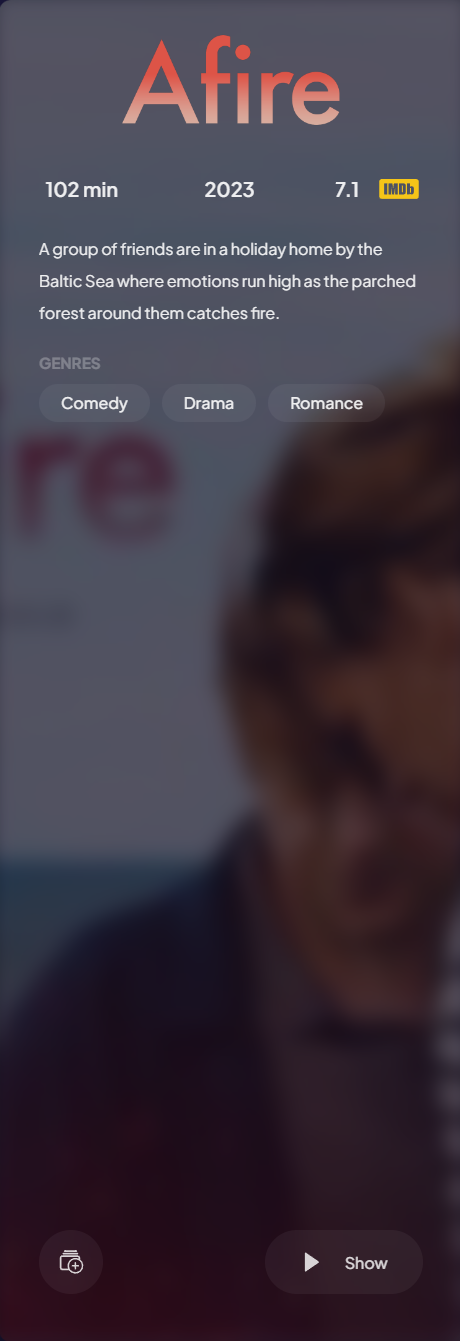
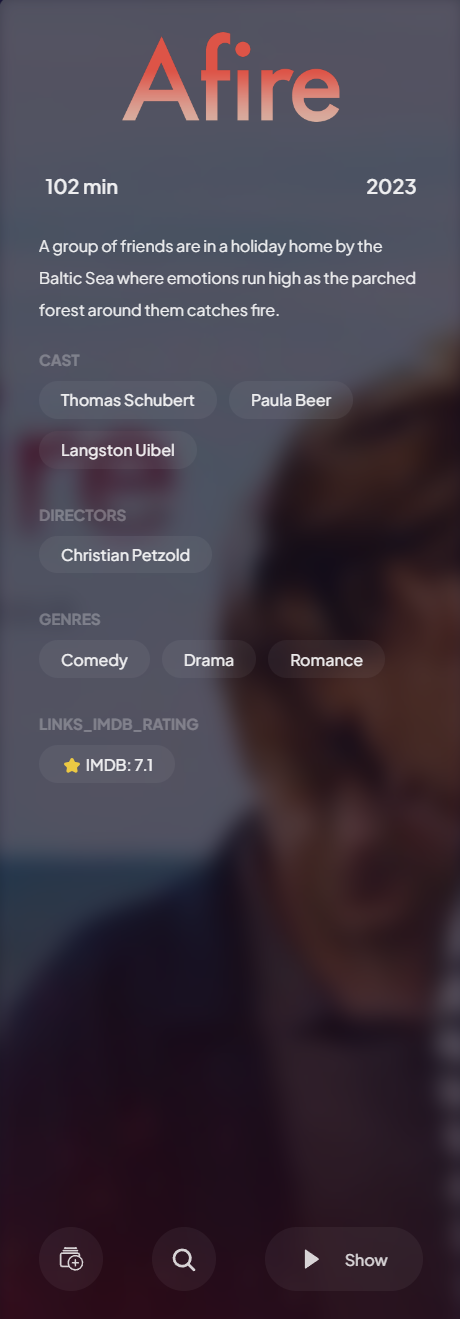
Updated to reflect recent changes to meta view

diff --git a/README.md b/README.md
@@ -3,7 +3,7 @@
 
 # **🎬 Criterion Collection Stremio Add-on**  
 
-Enhance your **Stremio experience** with a dedicated add-on for the **Criterion Collection**. Browse classic and contemporary films with **high-quality metadata**, **posters**, and seamless **integration** into Stremio.  
+Enhance your **Stremio experience** with a dedicated add-on for the **Criterion Collection**. Browse classic and contemporary films with **high-quality metadata** (including **cast** and **director** details), **posters**, and seamless **integration** into Stremio.  
 
 ---
 
@@ -23,8 +23,8 @@ Enhance your **Stremio experience** with a dedicated add-on for the **Criterion 
 
 ---
 
-### **🔍 Meta View / Catalog View**
-> Browse the Criterion Collection with a sleek and intuitive catalog view.
+### **🔍 Meta View / Catalog View (NEW!)**
+> Browse the Criterion Collection with a sleek and intuitive catalog view, now enhanced with detailed metadata including **Cast** and **Director** information.
 
 <div style="display: flex; align-items: center; gap: 8px;">
    <img src="images/image1.png" alt="Criterion Collection Catalog View 1" width="200" height="600" style="object-fit: cover; object-position: top;">
@@ -35,7 +35,7 @@ Enhance your **Stremio experience** with a dedicated add-on for the **Criterion 
 
 ---
 
-### **🔹 Sorting Feature (NEW!)**  
+### **🔹 Sorting Feature**  
 > Easily sort movies by Year, Rating, and Runtime in ascending or descending order!  
 
 <img src="images/Sorting_Dropdown.png" alt="Criterion Collection Sorting Feature" width="800">
@@ -69,7 +69,7 @@ The add-on is now **hosted on Render.com** and can be added to **Stremio** using
 ## **📌 Features**
 - ✅ **Browse Criterion Collection movies** inside Stremio.
 - ✅ **Advanced Sorting** (Sort by Year, Rating, and Runtime).
-- ✅ **Movie Metadata** (Title, Poster, IMDb Rating, Runtime).
+- ✅ **Movie Metadata** (Title, Poster, IMDb Rating, Runtime, **Cast, and Director**).
 - ✅ **Dynamically loads** `criterion_movies.json` (No need to restart Stremio).
 - ✅ **Deployable on Render, VPS, or Docker**.
 
@@ -120,7 +120,7 @@ python scraper.py
 ---
 
 ## **🎬 Step 2: Run the Stremio Add-on**
-This script integrates the scraped data with Stremio Add-on SDK.
+This script integrates the scraped data with the Stremio Add-on SDK.
 
 ### **🔹 Run the Stremio Add-on**
 ```sh
